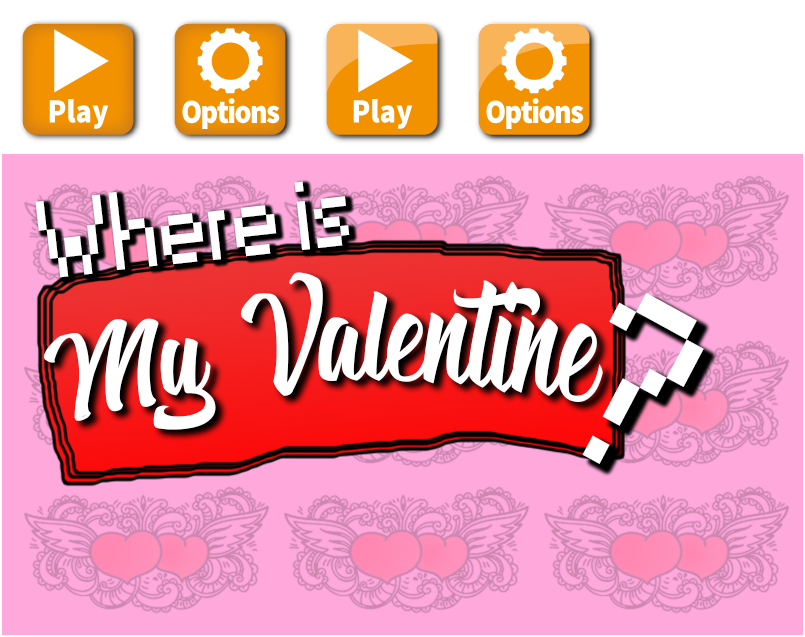
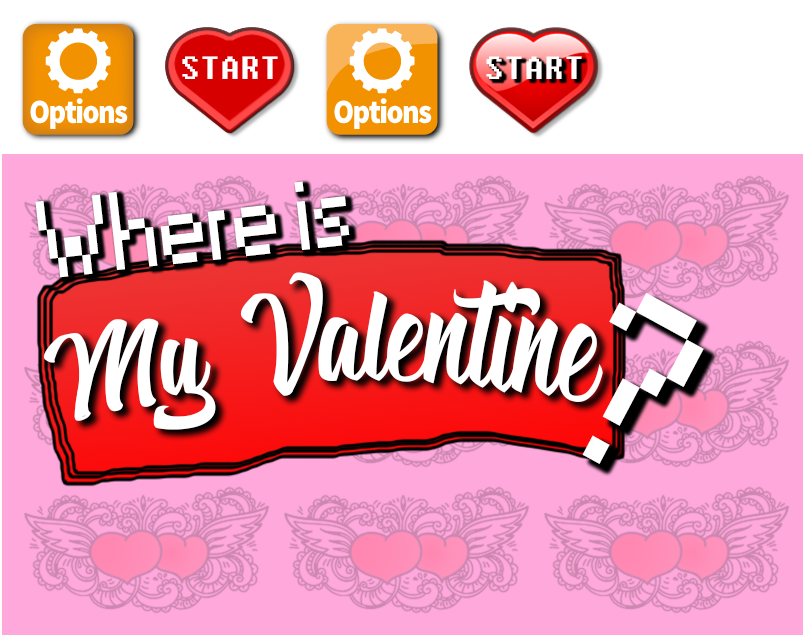
Msin screen layout changes

diff --git a/core/src/com/valentine18/game/screens/MenuScreen.java b/core/src/com/valentine18/game/screens/MenuScreen.java
@@ -165,7 +165,7 @@ public class MenuScreen extends AbstractGameScreen
     private Table buildControlsLayer ()
     {
         Table layer = new Table();
-        layer.right().bottom();
+        layer.center().bottom();
         // + Play Button
         btnMenuPlay = new Button(skinValentine18, "play");
         layer.add(btnMenuPlay);
@@ -175,6 +175,7 @@ public class MenuScreen extends AbstractGameScreen
                 onPlayClicked();
             }
         });
+        /*
         layer.row();
         // + Options Button
         btnMenuOptions = new Button(skinValentine18, "options");
@@ -184,7 +185,7 @@ public class MenuScreen extends AbstractGameScreen
             public void changed (ChangeEvent event, Actor actor) {
                 onOptionsClicked();
             }
-        });
+        });*/
         if (debugEnabled) layer.debug();
         return layer;
     }
